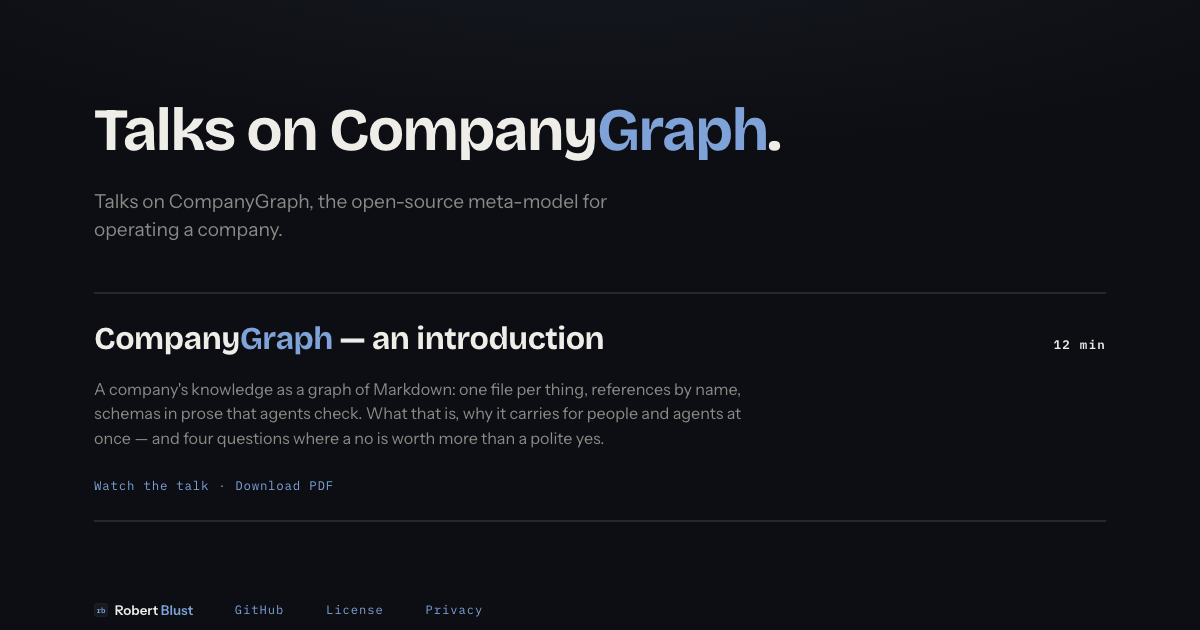
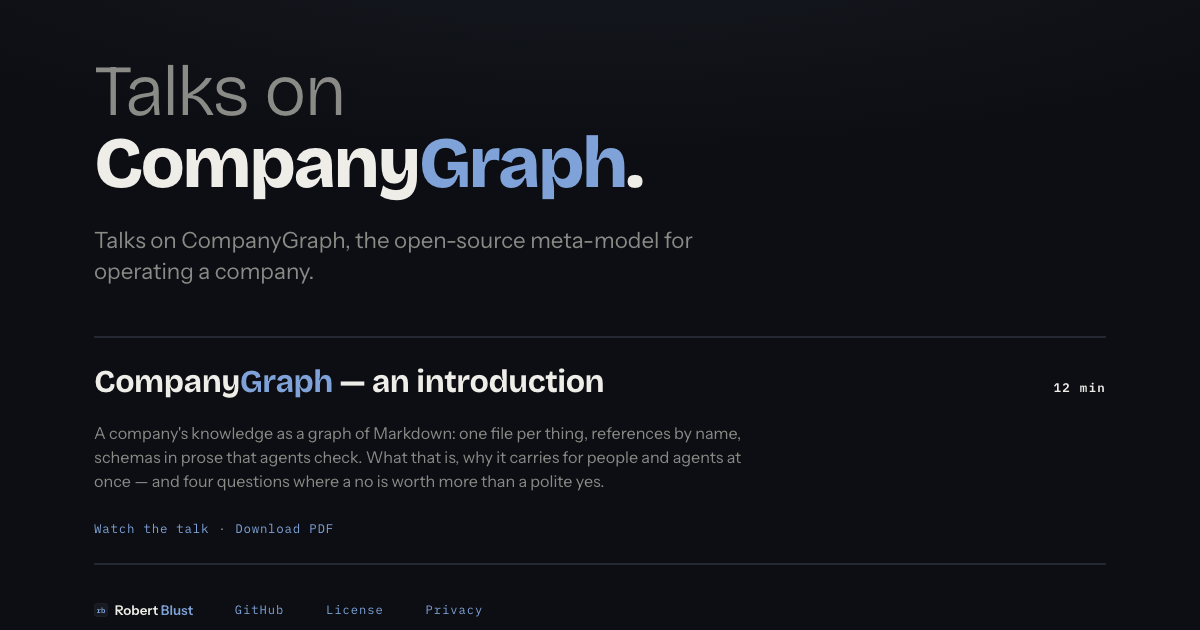
The talks page takes the family's title block
Every other prose page in the family opens the same way: the first clause light and dim, the
completion heavy under it, and a tagline at one measure below. This page opened with a single
line at weight 700 and a smaller lede, so a visitor moving between the sites met two
different designs.

The headline is the sentence it already was, broken in two — "Talks on" over "CompanyGraph."
— and the German follows the same break. The em keeps its own color here: it is not a word
being emphasized but the wordmark's second half. The paragraph under it is the family's
tagline, and the page's meta description still reads its sentence off that element rather
than a second copy, so the rename travels to the one line of script that looks it up.

Verified: npm run verify, all seven pages pass; og:check, design:check, test:og, test:d3,
example:check and pin:check pass, each exit code read on its own; conventions-sync check and
conventions-check pass.

diff --git a/talks/index.html b/talks/index.html
@@ -442,16 +442,24 @@
 
   main{flex:1; display:flex; align-items:center; padding:2vh 0 5vh}
 
-  h1{font-family:"Bricolage Grotesque", ui-sans-serif, system-ui, sans-serif;
-     font-weight:700; line-height:1.04; letter-spacing:-.032em; font-size:clamp(2.1rem,5vw,3.9rem); max-width:21ch}
+  /* The title block every prose page in the family carries: the first clause light and dim,
+     the completion heavy under it, and a tagline at one measure below. The page's subject is
+     what changes between pages, never the shape. */
+  .title h1{font-family:"Bricolage Grotesque", ui-sans-serif, system-ui, sans-serif;
+            letter-spacing:-.035em; line-height:1.0;
+            font-size:clamp(2.2rem,6vw,4.6rem)}
+  .title h1 .r70{display:block; font-weight:300; color:var(--dim)}
+  .title h1 .rcl{display:block; font-weight:800}
+  /* The accent word in that block is --c-firm elsewhere. Here the em is not a word being
+     emphasized but the wordmark's second half, so it keeps the wordmark's own rule below. */
   h1 em{font-style:normal; color:var(--c-mid)}
   /* The wordmark's second half, wherever it appears: accent-colored, never italic. `em`
      is the only tag available inside a data-de attribute value — nested markup there must
      use single quotes, and a <span class='...'> would be one more thing to keep in step
      across two languages. The rule does the work instead. */
   .t em{font-style:normal; color:var(--c-mid)}
-  .lede{margin-top:1.6rem; font-size:clamp(1.05rem,1.6vw,1.35rem); color:var(--dim);
-        max-width:44ch}
+  .tagline{margin-top:1.6rem; font-size:clamp(1.1rem,1.9vw,1.4rem); color:var(--dim);
+           max-width:46ch; line-height:1.4}
 
   .talks{margin-top:clamp(3rem,6vh,5rem)}
   .talk{
@@ -510,7 +518,7 @@
   :focus-visible{outline:2px solid var(--c-mid); outline-offset:3px; border-radius:3px}
 
   @media (max-width:900px){
-    .lede{max-width:100%}
+    .tagline{max-width:100%}
     main{padding:1vh 0 4vh}
     .talk{grid-template-columns:minmax(0,1fr); gap:.5rem}
     .meta{grid-column:1; text-align:left; margin-top:.4rem}
@@ -564,8 +572,10 @@
 
 <main>
   <div class="shell">
-    <h1 data-de="Vorträge über Company<em>Graph</em>.">Talks on Company<em>Graph</em>.</h1>
-    <p class="lede" data-de="Vorträge über CompanyGraph, das quelloffene Meta-Modell für den Betrieb eines Unternehmens.">Talks on CompanyGraph, the open-source meta-model for operating a company.</p>
+    <div class="title">
+      <h1 data-de="<span class='r70'>Vorträge über</span><span class='rcl'>Company<em>Graph</em>.</span>"><span class="r70">Talks on</span><span class="rcl">Company<em>Graph</em>.</span></h1>
+      <p class="tagline" data-de="Vorträge über CompanyGraph, das quelloffene Meta-Modell für den Betrieb eines Unternehmens.">Talks on CompanyGraph, the open-source meta-model for operating a company.</p>
+    </div>
 
     <div class="talks">
       <div class="talkrow">
@@ -753,12 +763,12 @@
   var i18n = Array.prototype.slice.call(document.querySelectorAll("[data-de]"));
   i18n.forEach(function(el){ el.setAttribute("data-en", el.innerHTML); });
 
-  // The description is the lede's own sentence in both languages — read off the lede
+  // The description is the tagline's own sentence in both languages — read off the tagline
   // element rather than retyped here, so the two copies cannot drift apart.
-  var ledeEl = document.querySelector(".lede");
+  var taglineEl = document.querySelector(".tagline");
   var UI = {
-    de:{ title:"Vorträge · CompanyGraph", desc: ledeEl.getAttribute("data-de") },
-    en:{ title:"Talks · CompanyGraph",    desc: ledeEl.getAttribute("data-en") }
+    de:{ title:"Vorträge · CompanyGraph", desc: taglineEl.getAttribute("data-de") },
+    en:{ title:"Talks · CompanyGraph",    desc: taglineEl.getAttribute("data-en") }
   };
 
   function applyLang(){
